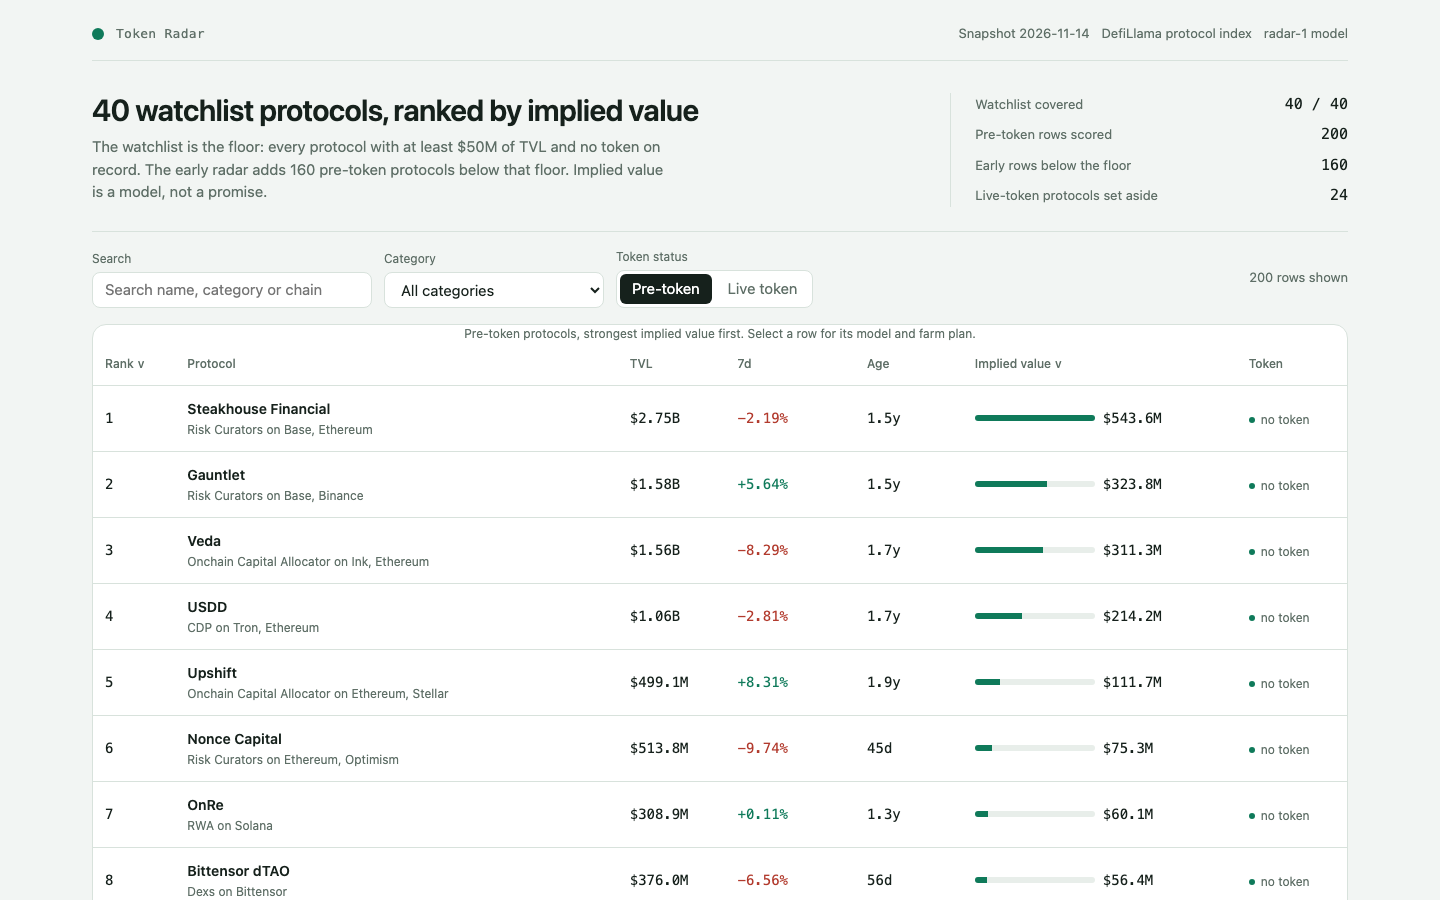
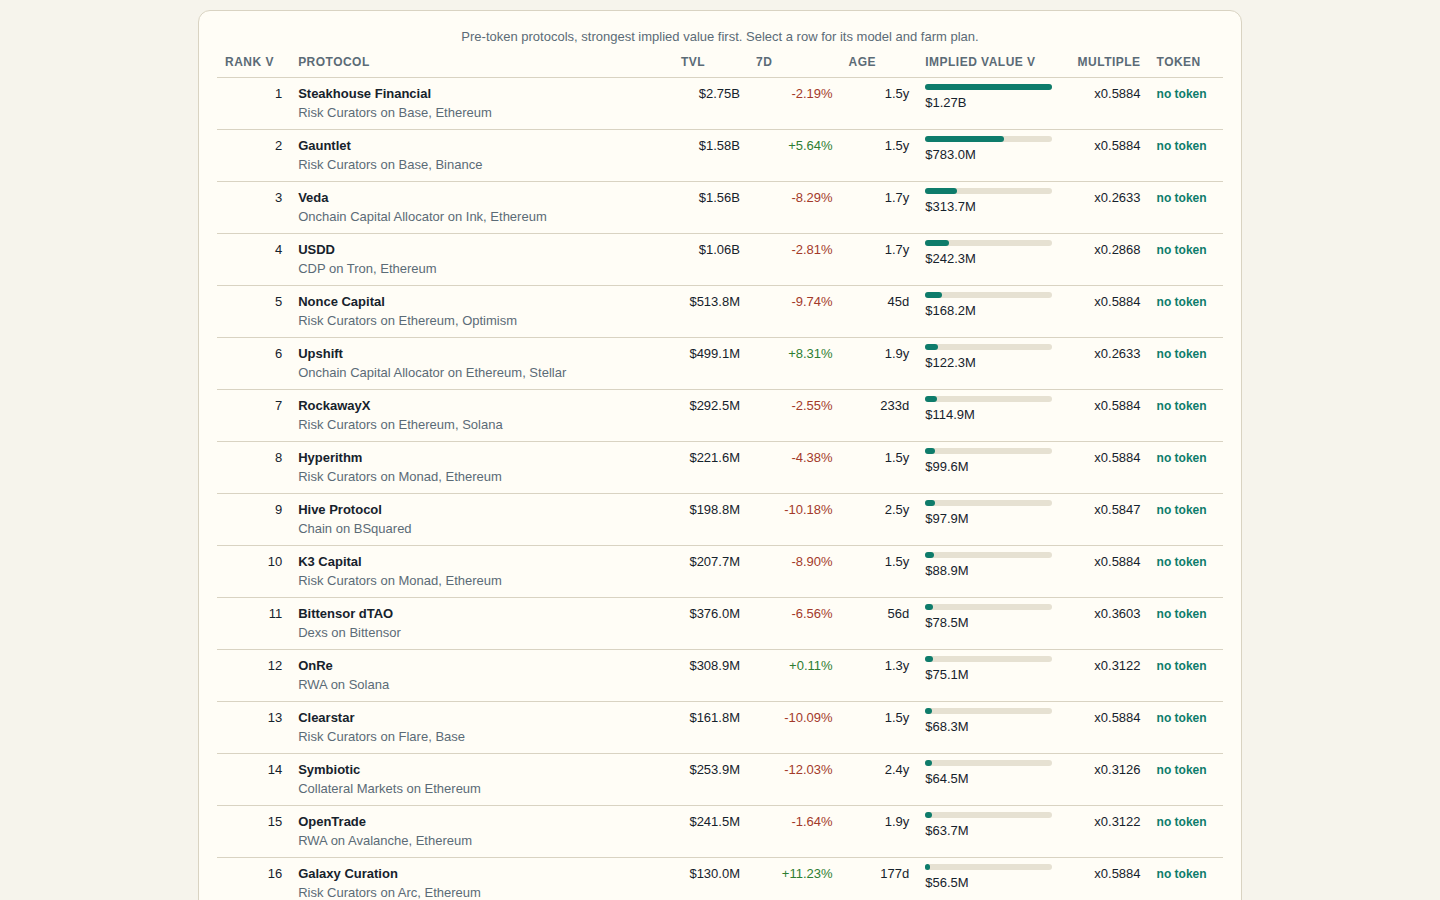
token-radar-01 radar-2 final: real screenshots, reproducible multiple, farm capital in detail view

diff --git a/dashboard/app.js b/dashboard/app.js
@@ -315,7 +315,7 @@
       );
       tbody.appendChild(tr);
     });
-    return el('div', { class: 'panel' },
+    return el('div', { class: 'panel', id: 'board-table' },
       el('div', { class: 'table-wrap' },
         el('table', null,
           el('caption', { class: 'sub', text: 'Pre-token protocols, strongest implied value first. Select a row for its model and farm plan.' }),
@@ -386,7 +386,8 @@
         el('div', null, el('span', { text: 'Growth multiplier' }), el('b', { class: 'num', text: String(row.growth_multiplier) })),
         el('div', null, el('span', { text: 'Maturity multiplier' }), el('b', { class: 'num', text: String(row.maturity_multiplier) })),
         el('div', null, el('span', { text: 'Implied value' }), el('b', { class: 'num', text: fmtUsd(row.implied_value_usd) })),
-        el('div', null, el('span', { text: 'Implied per $1 farmed' }), el('b', { class: 'num', text: '$' + row.upside_per_dollar.toLocaleString('en-US') }))
+        el('div', null, el('span', { text: 'Farm capital' }), el('b', { class: 'num', text: '$' + capitalFor(row) })),
+        el('div', null, el('span', { text: 'All-in budget' }), el('b', { class: 'num', text: '$' + (capitalFor(row) + (capitalFor(row) >= 150 ? 8 : 4) + 2 * Math.ceil(holdDaysFor(row.age_days) / 7) + 3) }))
       ),
       el('p', { class: 'sub', text: 'Model ' + DATA.model_version + ': the same function scores every protocol. The page recomputes this row as ' + fmtUsd(impliedOf(row, DATA.model)) + (impliedOf(row, DATA.model) === row.implied_value_usd ? ', the same number board.json carries.' : ', which differs from the board: the data would be stale.') + ' Calibration: ' + (row.calibration === 'calibrated' ? 'this category has live-token comps, so the multiple is fitted to them.' : 'this category has few live comps, so the multiple stays near the global median.') + ' This is an estimate, not a price.' })
     ));

diff --git a/dashboard/app.css b/dashboard/app.css
@@ -27,7 +27,7 @@ body { margin: 0; background: var(--paper); color: var(--ink);
 .panel h3 { margin: 14px 0 6px; font-size: 15px; }
 .sub { color: var(--muted); font-size: 13px; }
 .formula { font-family: ui-monospace, Menlo, Consolas, monospace; font-size: 13px; background: var(--teal-soft);
-  border-radius: 8px; padding: 10px 12px; overflow-x: auto; white-space: nowrap; }
+  border-radius: 8px; padding: 10px 12px; line-height: 1.6; }
 table { border-collapse: collapse; width: 100%; font-size: 13px; }
 th, td { text-align: left; padding: 6px 8px; border-bottom: 1px solid var(--line); vertical-align: top; }
 th { color: var(--muted); font-size: 12px; text-transform: uppercase; letter-spacing: .04em; }
@@ -40,6 +40,7 @@ th { color: var(--muted); font-size: 12px; text-transform: uppercase; letter-spa
 .ff { border: 1px solid var(--line); border-radius: 10px; padding: 10px 12px; background: var(--card); cursor: pointer; }
 .ff:hover { border-color: var(--teal); }
 .ff b { display: block; font-size: 14px; }
+.ff span { display: block; }
 .ff .num { text-align: left; font-weight: 700; }
 .controls { display: flex; flex-wrap: wrap; gap: 10px 14px; align-items: end; margin: 14px 0; }
 .field label, .field .sub { display: block; font-size: 12px; color: var(--muted); margin-bottom: 3px; }

diff --git a/lib/model.ts b/lib/model.ts
@@ -351,7 +351,9 @@ export function impliedValue(
 ): { implied: number; growthPct: number; growthMult: number; maturityMult: number; age: number | null; multiple: number; calibration: 'calibrated' | 'global' } {
   const { growthPct, growthMult, maturityMult, age } = multipliers(protocol, asOf, model);
   const cat = protocol.category ?? 'Other';
-  const multiple = fit.byCategory.get(cat) ?? fit.global;
+  // The multiple the board publishes is the rounded one, so the page can
+  // recompute the row's implied value exactly from the published figures.
+  const multiple = round4(fit.byCategory.get(cat) ?? fit.global);
   const calibration = fit.byCategory.has(cat) ? 'calibrated' : 'global';
   const implied = Math.max(1, Math.round(protocol.tvl_usd * multiple * growthMult * maturityMult));
   return { implied, growthPct, growthMult, maturityMult, age, multiple, calibration };
